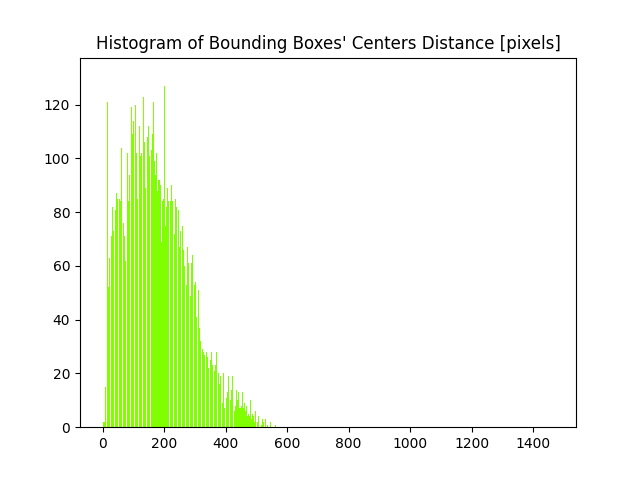
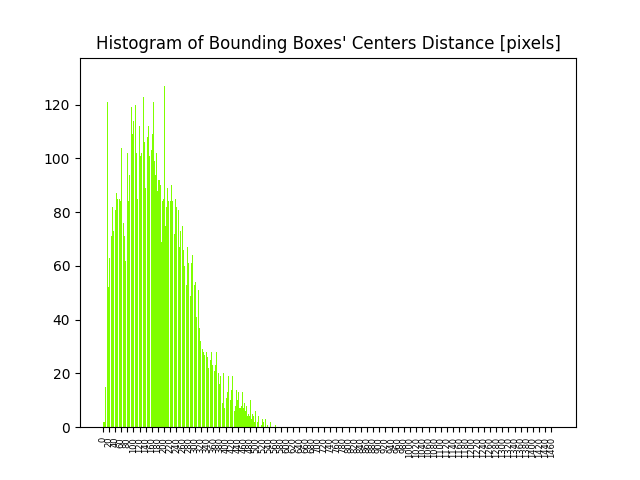
🦀 UPDATE - figures' plots 🐬

Changed region(s): [[0.1562, 0.9062, 0.875, 0.9688]]

diff --git a/source/sample_and_label_extraction.py b/source/sample_and_label_extraction.py
@@ -14,9 +14,9 @@ from typing import Dict, List, Tuple
 
 from matplotlib.patches import Rectangle
 from matplotlib.pyplot import (
-    clf as plt_clf, hist as plt_hist, pause as plt_pause,
-    savefig as plt_savefig, show as plt_show, subplots, title as plt_title,
-    xticks as plt_xticks
+    clf as plt_clf, figure as plt_figure, hist as plt_hist,
+    pause as plt_pause, savefig as plt_savefig, show as plt_show, subplots,
+    title as plt_title, xticks as plt_xticks
 )
 # pylint: disable=import-error
 from tensorflow import (
@@ -373,6 +373,7 @@ def inspect_bounding_boxes_statistics_on_training_n_validation_set() -> None:
     )
 
     what_it_represent = "Histogram of Number of Bounding Boxes per Image"
+    plt_figure()
     plt_hist(
         x=n_bounding_boxes_per_image_for_histogram,
         bins=maximum_n_bounding_boxes_per_image,
@@ -391,12 +392,13 @@ def inspect_bounding_boxes_statistics_on_training_n_validation_set() -> None:
         )
     )
     plt_show(block=False)
-    plt_pause(interval=3)
+    plt_pause(interval=1)
     plt_clf()
 
     what_it_represent = (
         "Histogram of Bounding Boxes' Centers Distance [pixels]"
     )
+    plt_figure()
     plt_hist(
         x=bounding_boxes_centers_distances_for_histogram,
         bins=list(range(int(sqrt(IMAGE_N_COLUMNS**2 + IMAGE_N_ROWS**2)))),
@@ -405,6 +407,13 @@ def inspect_bounding_boxes_statistics_on_training_n_validation_set() -> None:
         rwidth=0.8
     )
     plt_title(label=what_it_represent)
+    plt_xticks(
+        ticks=list(
+            range(0, int(sqrt(IMAGE_N_COLUMNS**2 + IMAGE_N_ROWS**2)), 20)
+        ),
+        fontsize=6,
+        rotation=90
+    )
     plt_savefig(
         path_join(
             PICTURES_DIR,
@@ -412,12 +421,13 @@ def inspect_bounding_boxes_statistics_on_training_n_validation_set() -> None:
         )
     )
     plt_show(block=False)
-    plt_pause(interval=3)
+    plt_pause(interval=1)
     plt_clf()
 
     what_it_represent = (
         "Histogram of Bounding Boxes' Centers X-Coordinate Distance [pixels]"
     )
+    plt_figure()
     plt_hist(
         x=bounding_boxes_centers_x_coord_distances_for_histogram,
         bins=list(range(IMAGE_N_COLUMNS)),
@@ -432,8 +442,9 @@ def inspect_bounding_boxes_statistics_on_training_n_validation_set() -> None:
             what_it_represent + '.png'
         )
     )
+    plt_figure()
     plt_show(block=False)
-    plt_pause(interval=3)
+    plt_pause(interval=1)
     plt_clf()
 
     what_it_represent = (
@@ -454,11 +465,10 @@ def inspect_bounding_boxes_statistics_on_training_n_validation_set() -> None:
         )
     )
     plt_show(block=False)
-    plt_pause(interval=3)
+    plt_pause(interval=1)
     plt_clf()
 
     print('- ' * 30)
-    raise NotImplementedError
 
 
 def label_line_to_image_path_2_bounding_boxes_and_2_model_output(
